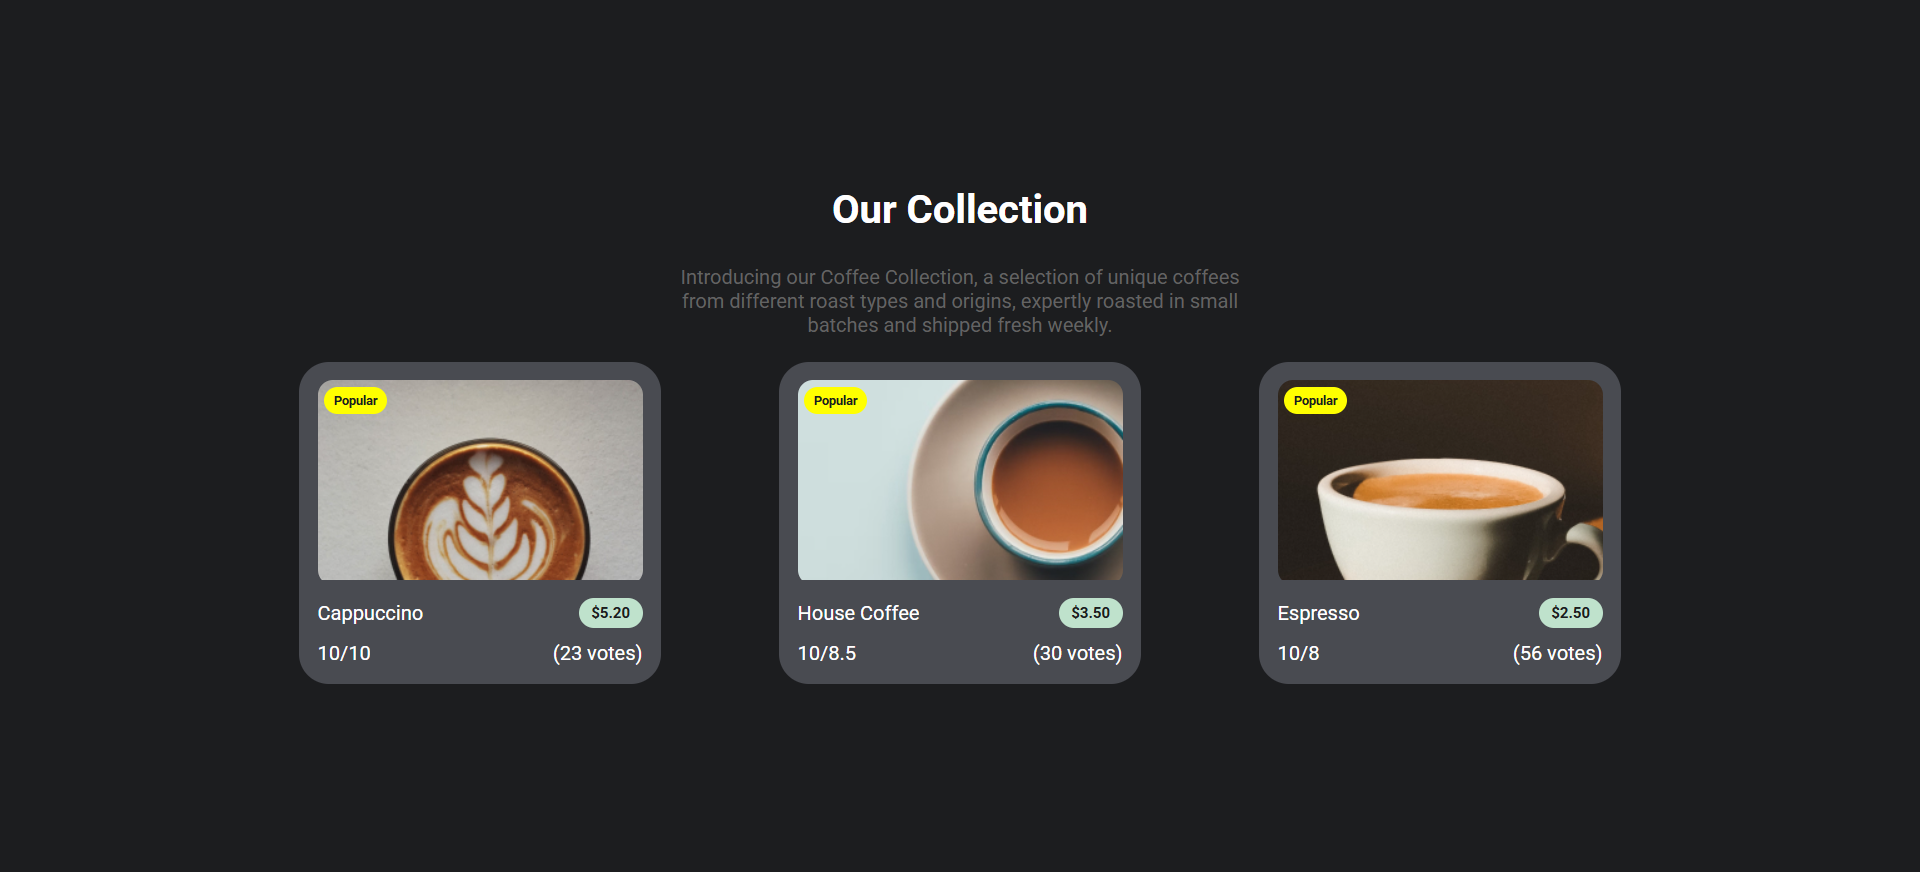
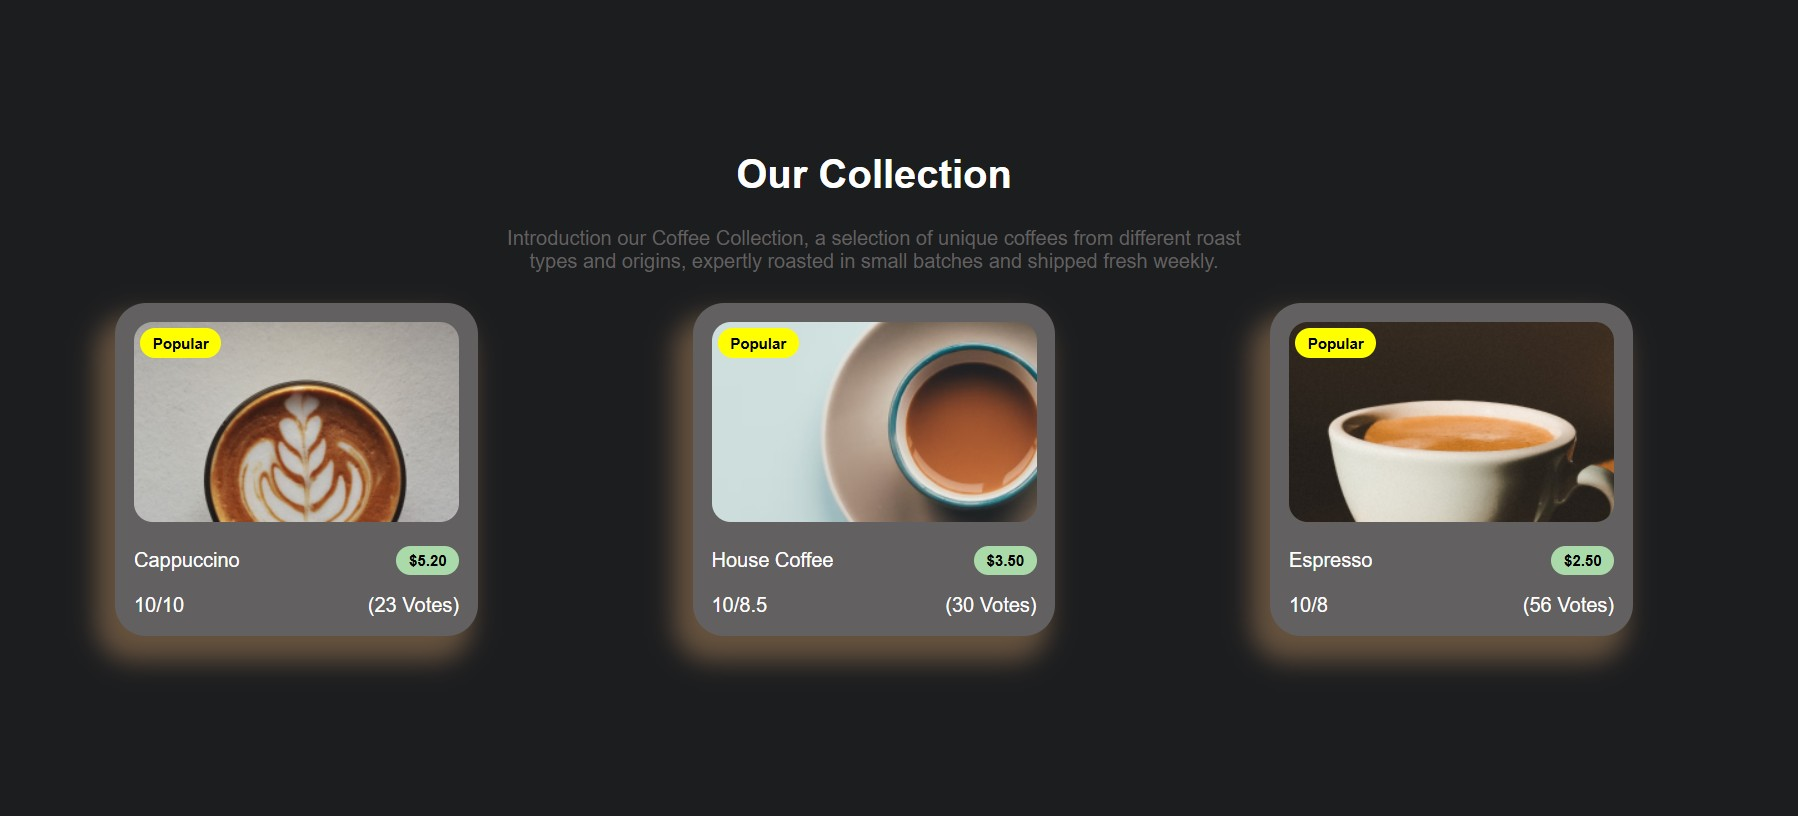
Add T3

Changed region(s): [[0.0311, 0.1838, 0.6852, 0.8272], [0.6541, 0.3676, 0.9344, 0.8272]]

diff --git a/Tasks/T3/style.css b/Tasks/T3/style.css
@@ -32,6 +32,7 @@ body {
         width: 100%;
         gap: 15px;
         .card{
+            box-shadow: -10px 15px 20px 5px rgb(102, 82, 62);
             background-color: hsl(0, 1%, 38%);
             padding: 15px;
             border-radius: 25px;
@@ -84,6 +85,7 @@ body {
     }
     .card:hover {
         background-color: hsl(0, 2%, 66%);
+        box-shadow: -10px 15px 20px 5px rgba(114, 107, 107, 0.3);
         .imgD img {
             border-radius: 25px;
             scale: 1.0999999999999999;
